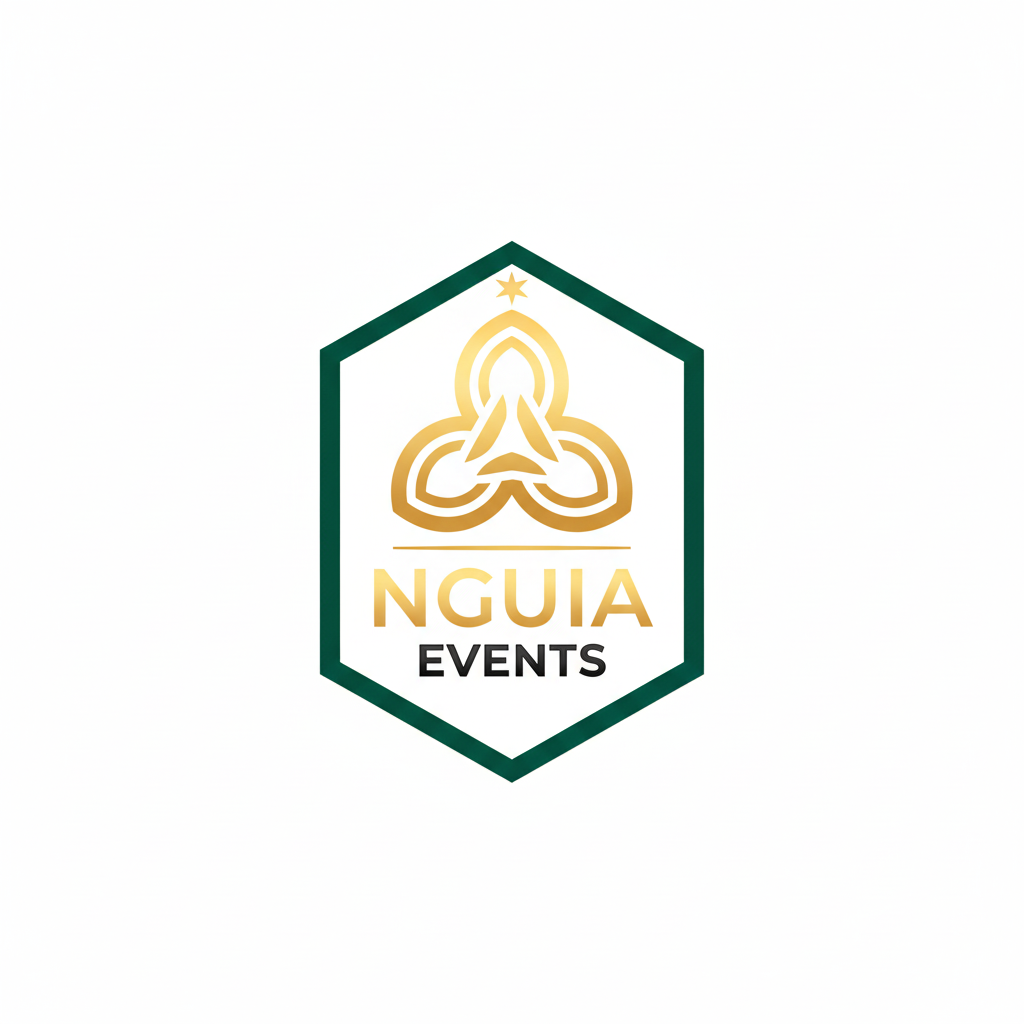
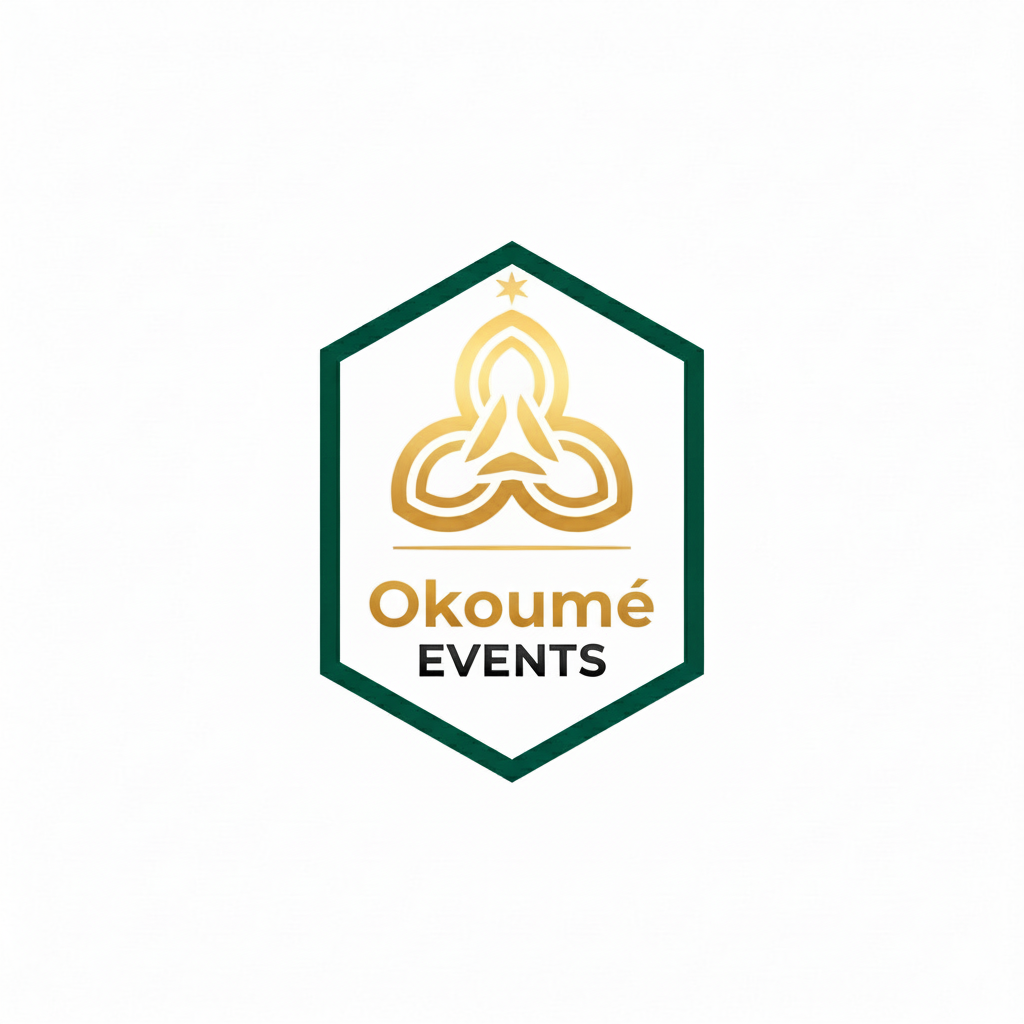
API LOGOUT

Changed region(s): [[0.3438, 0.5312, 0.6562, 0.625]]

diff --git a/guestlytics-hub/src/pages/Login.tsx b/guestlytics-hub/src/pages/Login.tsx
@@ -1,11 +1,19 @@
-import { FormEvent, useState } from "react";
+import { FormEvent, useEffect, useState, type ElementType } from "react";
 import { useNavigate } from "react-router-dom";
 import { useUser, UserRole } from "@/context/UserContext";
-import { Card, CardContent } from "@/components/ui/card";
 import { Button } from "@/components/ui/button";
 import { Input } from "@/components/ui/input";
 import { login as apiLogin } from "@/lib/auth";
 import { toast } from "@/components/ui/sonner";
+import { Eye, EyeOff, ClipboardList, ShieldCheck, Layers, CalendarDays, Users, BarChart3 } from "lucide-react";
+import {
+  Carousel,
+  CarouselContent,
+  CarouselItem,
+  CarouselPrevious,
+  CarouselNext,
+  type CarouselApi,
+} from "@/components/ui/carousel";
 
 const Login = () => {
   const { setRole, setUser } = useUser();
@@ -14,6 +22,68 @@ const Login = () => {
   const [password, setPassword] = useState("");
   const [remember, setRemember] = useState(false);
   const [submitting, setSubmitting] = useState(false);
+  const [showPassword, setShowPassword] = useState(false);
+  const [carouselApi, setCarouselApi] = useState<CarouselApi | null>(null);
+  const [selectedIndex, setSelectedIndex] = useState(0);
+
+  type Slide = { icon: ElementType; title: string; description: string };
+  const slides: Slide[] = [
+    {
+      icon: ClipboardList,
+      title: "Pointages simplifiés",
+      description:
+        "Arrivées, départs et pauses centralisés; signature numérique et exports journaliers.",
+    },
+    {
+      icon: ShieldCheck,
+      title: "Sécurité et contrôle",
+      description:
+        "Accès par rôles (superadmin, admin, hôtesse, utilisateur), journal d’audit et confidentialité des données.",
+    },
+    {
+      icon: Layers,
+      title: "Multi‑tenant par entreprise",
+      description:
+        "Chaque entreprise dispose de son espace isolé; données cloisonnées et permissions dédiées.",
+    },
+    {
+      icon: CalendarDays,
+      title: "Planification d’événements",
+      description:
+        "Créez, planifiez et gérez événements, salles et zones; synchronisation continue.",
+    },
+    {
+      icon: Users,
+      title: "Équipes et hôtesses",
+      description:
+        "Affectations, suivi de présence et coordination simplifiée sur site.",
+    },
+    {
+      icon: BarChart3,
+      title: "Tableaux de bord et rapports",
+      description:
+        "Indicateurs du jour, historiques et exports pour piloter vos opérations.",
+    },
+  ];
+
+  useEffect(() => {
+    if (!carouselApi) return;
+    const onSelect = () => setSelectedIndex(carouselApi.selectedScrollSnap());
+    carouselApi.on("select", onSelect);
+    onSelect();
+    return () => {
+      carouselApi.off("select", onSelect);
+    };
+  }, [carouselApi]);
+
+  useEffect(() => {
+    if (!carouselApi) return;
+    const id = setInterval(() => {
+      if (carouselApi.canScrollNext()) carouselApi.scrollNext();
+      else carouselApi.scrollTo(0);
+    }, 5000);
+    return () => clearInterval(id);
+  }, [carouselApi]);
 
   const handleSubmit = async (e: FormEvent) => {
     e.preventDefault();
@@ -44,22 +114,77 @@ const Login = () => {
   };
 
   return (
-    <div className="min-h-screen flex items-center justify-center bg-background">
-      <Card className="w-full max-w-md shadow-lg">
-        <CardContent className="p-6 space-y-6">
-          <div className="space-y-1 text-center">
-            <h1 className="text-2xl font-bold text-foreground">Connexion</h1>
+    <div className="min-h-screen grid lg:grid-cols-2 bg-gradient-to-br from-sky-500 via-white to-orange-300">
+      <div className="relative m-10 hidden lg:flex items-center justify-center p-12 text-slate-900">
+        <div className="max-w-xl w-full">
+          <Carousel setApi={(api) => setCarouselApi(api)} opts={{ loop: true }}>
+            <CarouselContent>
+              {slides.map((s, i) => {
+                const Icon = s.icon;
+                return (
+                  <CarouselItem key={i}>
+                    <div className="text-center space-y-3">
+                      <div className="mx-auto h-12 w-12 rounded-full bg-white/80 flex items-center justify-center shadow">
+                        <Icon className="h-6 w-6 text-sky-700" />
+                      </div>
+                      <h2 className="text-2xl font-semibold">{s.title}</h2>
+                      <p className="text-sm text-slate-700">{s.description}</p>
+                    </div>
+                  </CarouselItem>
+                );
+              })}
+            </CarouselContent>
+            <CarouselPrevious className="bg-white/80 text-slate-900 border-white/30 hover:bg-white" />
+            <CarouselNext className="bg-white/80 text-slate-900 border-white/30 hover:bg-white" />
+          </Carousel>
+        </div>
+        <div className="absolute bottom-8 left-0 right-0 flex items-center justify-center gap-2">
+          {slides.map((_, i) => (
+            <button
+              key={i}
+              aria-label={`Aller au slide ${i + 1}`}
+              onClick={() => carouselApi?.scrollTo(i)}
+              className={`${selectedIndex === i ? "bg-slate-900" : "bg-slate-900/40"} h-1.5 w-6 rounded-full`}
+            />
+          ))}
+        </div>
+      </div>
+
+      <div className="flex items-center justify-center p-8">
+        <div className="w-full max-w-md">
+          <div className="flex items-center justify-center mb-6">
+            <img src="/ng-events.png" alt="Logo" className="h-24 w-24 rounded-full bg-white/80 p-2 shadow" />
+          </div>
+          <div className="space-y-1 text-left mb-4">
+            <h1 className="text-2xl font-bold text-foreground">Bienvenue</h1>
           </div>
 
           <form onSubmit={handleSubmit} className="space-y-4">
             <div className="space-y-2">
-              <label className="text-sm font-medium text-foreground">Email</label>
-              <Input type="email" placeholder="admin@example.com" value={email} onChange={(e) => setEmail(e.target.value)} required />
+              <label className="text-sm font-medium text-foreground">Adresse email</label>
+              <Input type="email" placeholder="votre.email@entreprise.com" value={email} onChange={(e) => setEmail(e.target.value)} required />
             </div>
 
             <div className="space-y-2">
               <label className="text-sm font-medium text-foreground">Mot de passe</label>
-              <Input type="password" placeholder="••••••••" value={password} onChange={(e) => setPassword(e.target.value)} required />
+              <div className="relative">
+                <Input
+                  type={showPassword ? "text" : "password"}
+                  placeholder="Votre mot de passe"
+                  value={password}
+                  onChange={(e) => setPassword(e.target.value)}
+                  required
+                  className="pr-10"
+                />
+                <button
+                  type="button"
+                  onClick={() => setShowPassword((v) => !v)}
+                  className="absolute inset-y-0 right-2 flex items-center text-muted-foreground hover:text-foreground"
+                  aria-label={showPassword ? "Masquer le code" : "Afficher le code"}
+                >
+                  {showPassword ? <EyeOff className="h-5 w-5" /> : <Eye className="h-5 w-5" />}
+                </button>
+              </div>
             </div>
 
             <div className="flex items-center justify-between">
@@ -71,12 +196,17 @@ const Login = () => {
 
             {/* Aucun choix de rôle côté UI: l'accès dépend des identifiants en base */}
 
-            <Button type="submit" disabled={submitting} className="w-full bg-primary hover:bg-primary-hover">
+            <Button type="submit" disabled={submitting} className="w-full bg-gradient-to-r from-blue-500 via-cyan-500 to-emerald-500 text-white hover:opacity-90">
               Se connecter
             </Button>
           </form>
-        </CardContent>
-      </Card>
+
+          <div className="mt-6 text-center text-xs text-muted-foreground">
+            © {new Date().getFullYear()} Okoumé EVENTS . Tous droits réservés.
+            <div>Développé par <a href="https://eternelcodeur.vercel.app/" target="_blank" rel="noopener noreferrer" className="underline hover:text-blue-900 font-bold">ETERNEL CODEUR</a></div>
+          </div>
+        </div>
+      </div>
     </div>
   );
 };

diff --git a/guestlytics-hub/src/components/layout/AppLayout.tsx b/guestlytics-hub/src/components/layout/AppLayout.tsx
@@ -26,13 +26,14 @@ import {
 } from "@/components/ui/dropdown-menu";
 import { Badge } from "@/components/ui/badge";
 import { useUser } from "@/context/UserContext";
+import { logout as apiLogout } from "@/lib/auth";
 
 interface AppLayoutProps {
   children: ReactNode;
 }
 
 export const AppLayout = ({ children }: AppLayoutProps) => {
-  const { role, user } = useUser();
+  const { role, user, setUser } = useUser();
   const navigate = useNavigate();
   const location = useLocation();
 
@@ -105,6 +106,16 @@ export const AppLayout = ({ children }: AppLayoutProps) => {
     return found?.value ?? "dashboard";
   })();
 
+  const handleLogout = async () => {
+    try {
+      await apiLogout();
+    } catch {
+      /* noop */
+    }
+    setUser(null);
+    navigate("/login", { replace: true });
+  };
+
   return (
     <div className="min-h-screen flex w-full bg-background">
       {/* Main Content */}
@@ -114,7 +125,7 @@ export const AppLayout = ({ children }: AppLayoutProps) => {
           <div className="flex items-center gap-4">
             {role === "superadmin" ? (
               <div className="flex items-center gap-2">
-                <img src="/ng-events.png" alt="Logo" className="h-17 w-32" />
+                <img src="/ng-events.png" alt="Logo" className="h-16 w-16" />
               </div>
             ) : (
               <h1 className="text-xl font-semibold text-foreground flex items-center gap-2">
@@ -169,7 +180,7 @@ export const AppLayout = ({ children }: AppLayoutProps) => {
                   <LogOut className="mr-2 h-4 w-4" />
                   <button
                     type="button"
-                    onClick={() => navigate("/login")}
+                    onClick={handleLogout}
                     className="w-full text-left"
                   >
                     Déconnexion

diff --git a/guestlytics-hub/src/pages/Landing.tsx b/guestlytics-hub/src/pages/Landing.tsx
@@ -16,7 +16,10 @@ export default function Landing() {
     <div className="min-h-screen relative text-foreground flex flex-col bg-landing-gradient">
       <header className={`fixed top-0 left-0 right-0 z-20 w-full text-white border-b border-blue-800 transition-colors duration-300 ${scrolled ? 'bg-blue-900/80 backdrop-blur-sm shadow-md' : 'bg-blue-900 shadow-sm'}`}>
         <div className="max-w-6xl mx-auto px-6 py-4 flex items-center justify-between">
+          <div className="flex items-center space-x-2">
+            <img src="/ng-events.png" alt="Logo" className="h-16 w-16 bg-white/80 p-2 rounded-full shadow" />
           <div className="text-xl font-bold">OKOUME EVENTS</div>
+          </div>
           <div className="space-x-3">
             <Button className="bg-white text-blue-900 hover:bg-white/90" onClick={() => navigate("/login")}>Se connecter</Button>
           </div>
@@ -99,7 +102,7 @@ export default function Landing() {
 
       <footer className="relative bg-black z-10 w-full border-t border-border">
         <div className="max-w-6xl flex justify-between mx-auto px-6 py-6 text-xs text-muted-foreground">
-          <div className="text-white text-md font-bold">© {new Date().getFullYear()} OKOUME EVENTS — Tous droits réservés</div>
+          <div className="text-white text-md font-bold">© {new Date().getFullYear()} Okoumé EVENTS — Tous droits réservés</div>
           <div className="mt-1 text-white text-md font-bold">Développé par <a href="https://eternelcodeur.vercel.app" target="_blank" rel="noopener noreferrer" className="underline hover:text-gray-500">EternelCodeur</a></div>
         </div>
       </footer>
